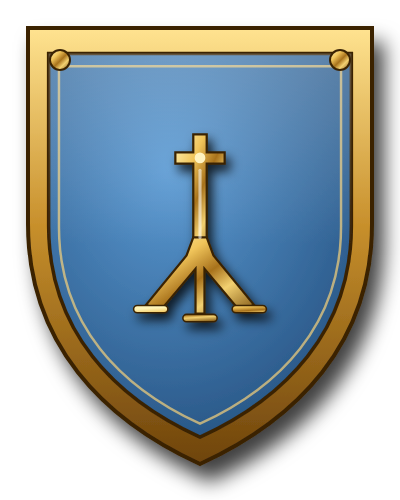
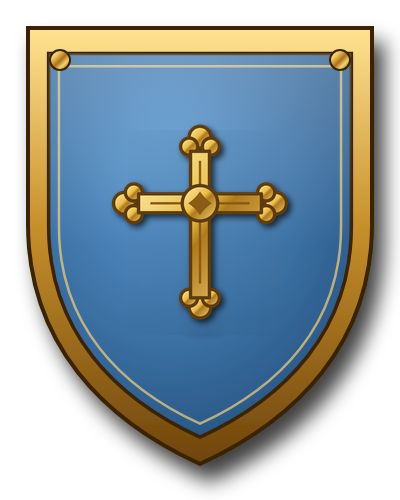
New Priest and Martial Artist insignias (plates and crests)
Priest: an ornate cross with trefoil ends and a central medallion.
Martial Artist: a fist seen from the front, rays around it.
Drawn as SVG (tools/job_icons_svg) and rendered over the old plate and
crest by render.py (silver on the plate, gold on the crest).

Claude-Session: https://claude.ai/code/session_01G62FC9HnQNvdeoAxo1zKLa

Changed region(s): [[0.27, 0.24, 0.75, 0.69]]

diff --git a/tools/job_icons_svg/render.py b/tools/job_icons_svg/render.py
@@ -1,0 +1,79 @@
+#!/usr/bin/env python3
+"""Redraws a job's plate (tools/job_icons_plate/<job>.png, 96x96) and coat of
+arms (tools/job_crests/<job>.png, 400x500) from its symbol here (<job>.svg):
+the symbol in polished silver on the dark plate, in gold on the shield. The
+old symbol is taken off first (the plate's rows are one colour each; the
+shield's field is filled again from its sides). A tool for this project's
+artists only (it needs cairosvg, numpy and Pillow); the PNGs are committed.
+
+    render.py <job>"""
+import io, os, sys
+import cairosvg, numpy as np
+from PIL import Image, ImageFilter
+
+HERE = os.path.dirname(os.path.abspath(__file__))
+TOOLS = os.path.dirname(HERE)
+SILVER = dict(C0="#fbfbfd", C1="#c9ccd2", C2="#8d9098", C3="#e4e6ea", OUTLINE="#2c2d31", LINE="#6d7077", RAY="#b9bcc3", NAIL="#f4f5f7")
+GOLD = dict(C0="#fff2b4", C1="#e8bc48", C2="#b07a1c", C3="#f3d27a", OUTLINE="#5e3c0c", LINE="#8a5c14", RAY="#f0cf72", NAIL="#fff4c8")
+
+
+def symbol(job, colours, size):
+    svg = open(os.path.join(HERE, job + ".svg")).read()
+    for k, v in colours.items():
+        svg = svg.replace(k, v)
+    png = cairosvg.svg2png(bytestring=svg.encode(), output_width=size * 4, output_height=size * 4)
+    return Image.open(io.BytesIO(png)).convert("RGBA").resize((size, size), Image.LANCZOS)
+
+
+def with_shadow(sym, off, blur, alpha):
+    a = sym.split()[3].filter(ImageFilter.GaussianBlur(blur)).point(lambda v: int(v * alpha))
+    sh = Image.new("RGBA", sym.size, (0, 0, 0, 0)); sh.putalpha(a)
+    out = Image.new("RGBA", sym.size, (0, 0, 0, 0)); out.alpha_composite(sh, (off, off)); out.alpha_composite(sym)
+    return out
+
+
+def plate(job):
+    path = os.path.join(TOOLS, "job_icons_plate", job + ".png")
+    p = np.array(Image.open(path).convert("RGBA"))
+    for y in range(8, 89):                                    # the old symbol off: each row its colour at 21 (not the corners' marks)
+        if 18 <= y <= 78:                                     # (from 10: a wide old symbol can cross 21)
+            p[y, 12:85] = p[y, 10]
+        else:
+            p[y, 19:78] = p[y, 21]
+    out = Image.fromarray(p)
+    out.alpha_composite(with_shadow(symbol(job, SILVER, 96), 1, 1.2, 0.8))
+    out.save(path)
+
+
+def crest(job):
+    path = os.path.join(TOOLS, "job_crests", job + ".png")
+    c = np.array(Image.open(path).convert("RGBA")).astype(float)
+    r, g, b = c[..., 0], c[..., 1], c[..., 2]
+    gold = (r > 200) & (g > 150) & (b < 150)                  # the old symbol's bright gold (not an orange field)
+    mask = np.zeros(gold.shape, bool); mask[110:360, 120:280] = gold[110:360, 120:280]   # (the symbol: the middle of the field, not its gold lines)
+    ys, xs = np.where(mask)
+    m = np.zeros(gold.shape, bool)                            # (its box, its shadow under and right of it too)
+    if len(ys):
+        m[ys.min() - 6:ys.max() + 16, xs.min() - 8:xs.max() + 16] = True
+    h = c.copy(); v = c.copy()                                # the field again: from its sides and from above and below,
+    for y in range(c.shape[0]):                               # averaged (the field is lighter in its middle)
+        xs = np.where(m[y])[0]
+        if len(xs):
+            x0, x1 = xs.min() - 1, xs.max() + 1
+            t = ((np.arange(x0 + 1, x1) - x0) / (x1 - x0))[:, None]
+            h[y, x0 + 1:x1] = c[y, x0] * (1 - t) + c[y, x1] * t
+    for x in range(c.shape[1]):
+        ys = np.where(m[:, x])[0]
+        if len(ys):
+            y0, y1 = ys.min() - 1, ys.max() + 1
+            t = ((np.arange(y0 + 1, y1) - y0) / (y1 - y0))[:, None]
+            v[y0 + 1:y1, x] = c[y0, x] * (1 - t) + c[y1, x] * t
+    c[m] = (h[m] + v[m]) / 2
+    out = Image.fromarray(c.astype(np.uint8))
+    s = symbol(job, GOLD, 270)
+    out.alpha_composite(with_shadow(s, 3, 3, 0.7), (65, 90))
+    out.save(path)
+
+
+if __name__ == "__main__":
+    plate(sys.argv[1]); crest(sys.argv[1])
